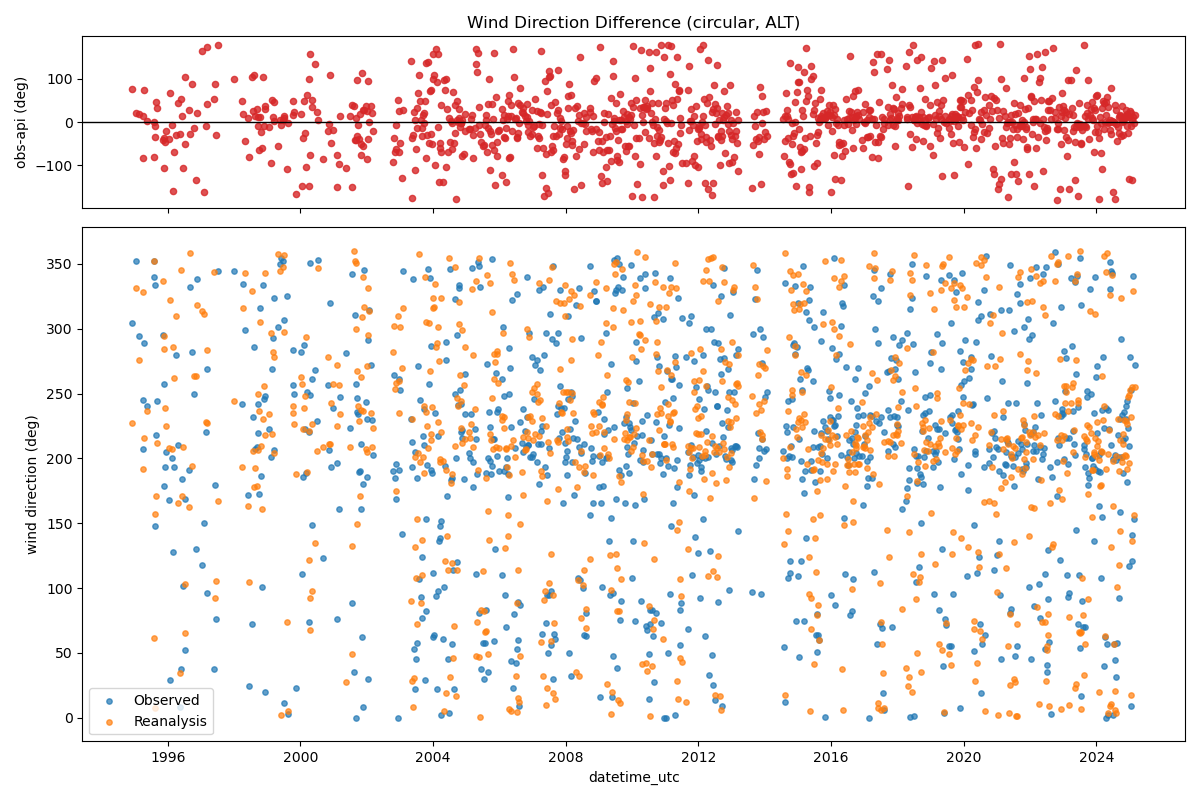
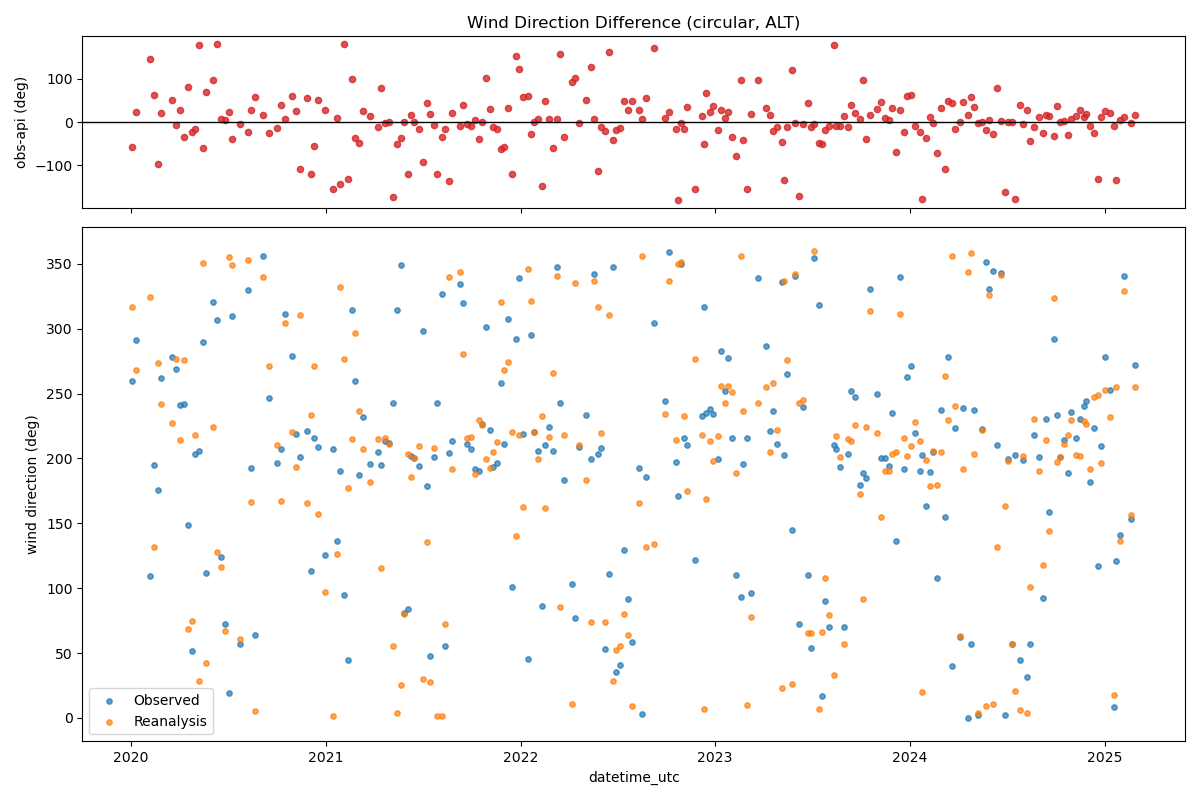
starting figures at 2020

diff --git a/met_comp.py b/met_comp.py
@@ -12,6 +12,7 @@ import flask_data
 api = ArchivedMetAPI("noaa-sites.yaml")
 sites = ["alt", "brw", "cgo", "nwr", "hfm"]
 RESULTS_DIR = "results"
+FIGURE_START = pd.Timestamp("2020-01-01", tz="UTC")
 gml_df = None
 day_cache = {}
 
@@ -106,6 +107,7 @@ def plot_wind_spd_comparison(site, site_df):
     api_dir_col = "api_wind_dir"
     subset = (
         site_df.loc[:, ["datetime_utc", "wind_spd", api_spd_col, "wind_dir", api_dir_col]]
+        .loc[lambda d: pd.to_datetime(d["datetime_utc"], errors="coerce", utc=True) >= FIGURE_START]
         .dropna()
         .copy()
     )
@@ -137,6 +139,7 @@ def plot_wind_dir_comparison(site, site_df):
     api_dir_col = "api_wind_dir"
     subset = (
         site_df.loc[:, ["datetime_utc", "wind_dir", api_dir_col]]
+        .loc[lambda d: pd.to_datetime(d["datetime_utc"], errors="coerce", utc=True) >= FIGURE_START]
         .dropna()
         .copy()
     )
